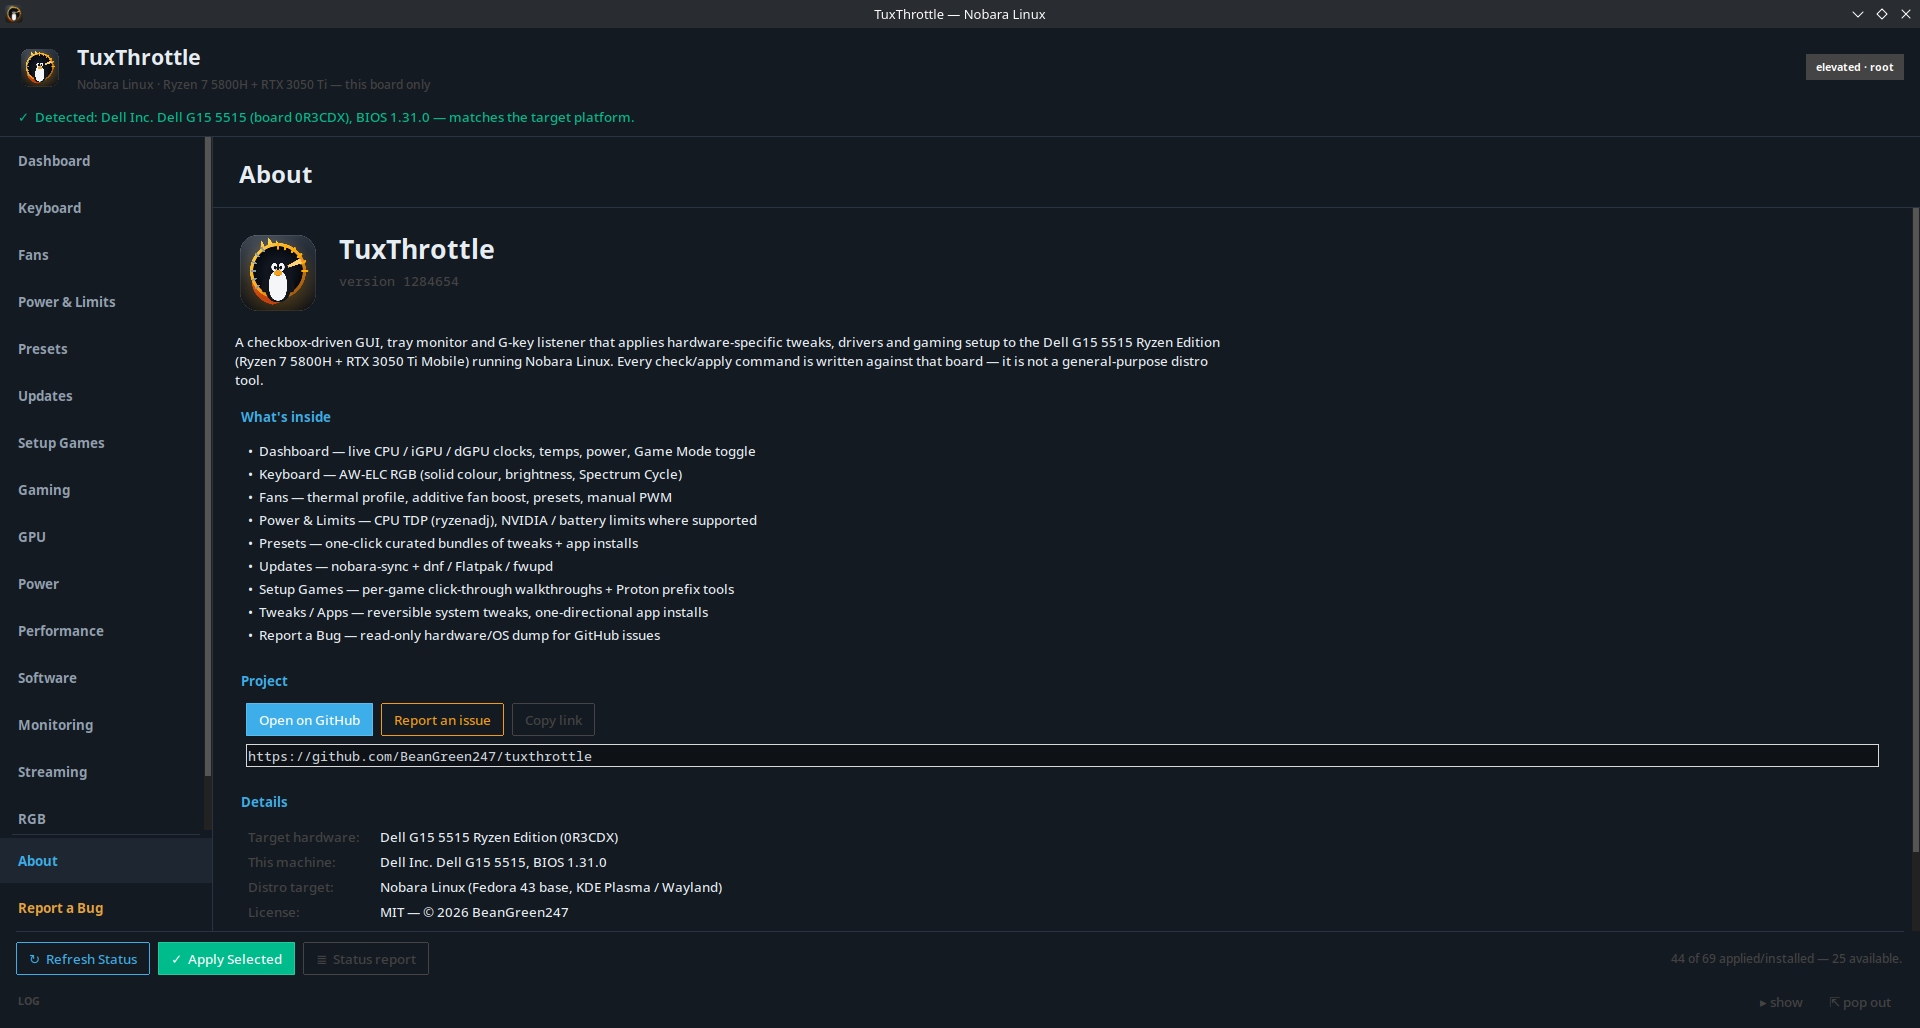
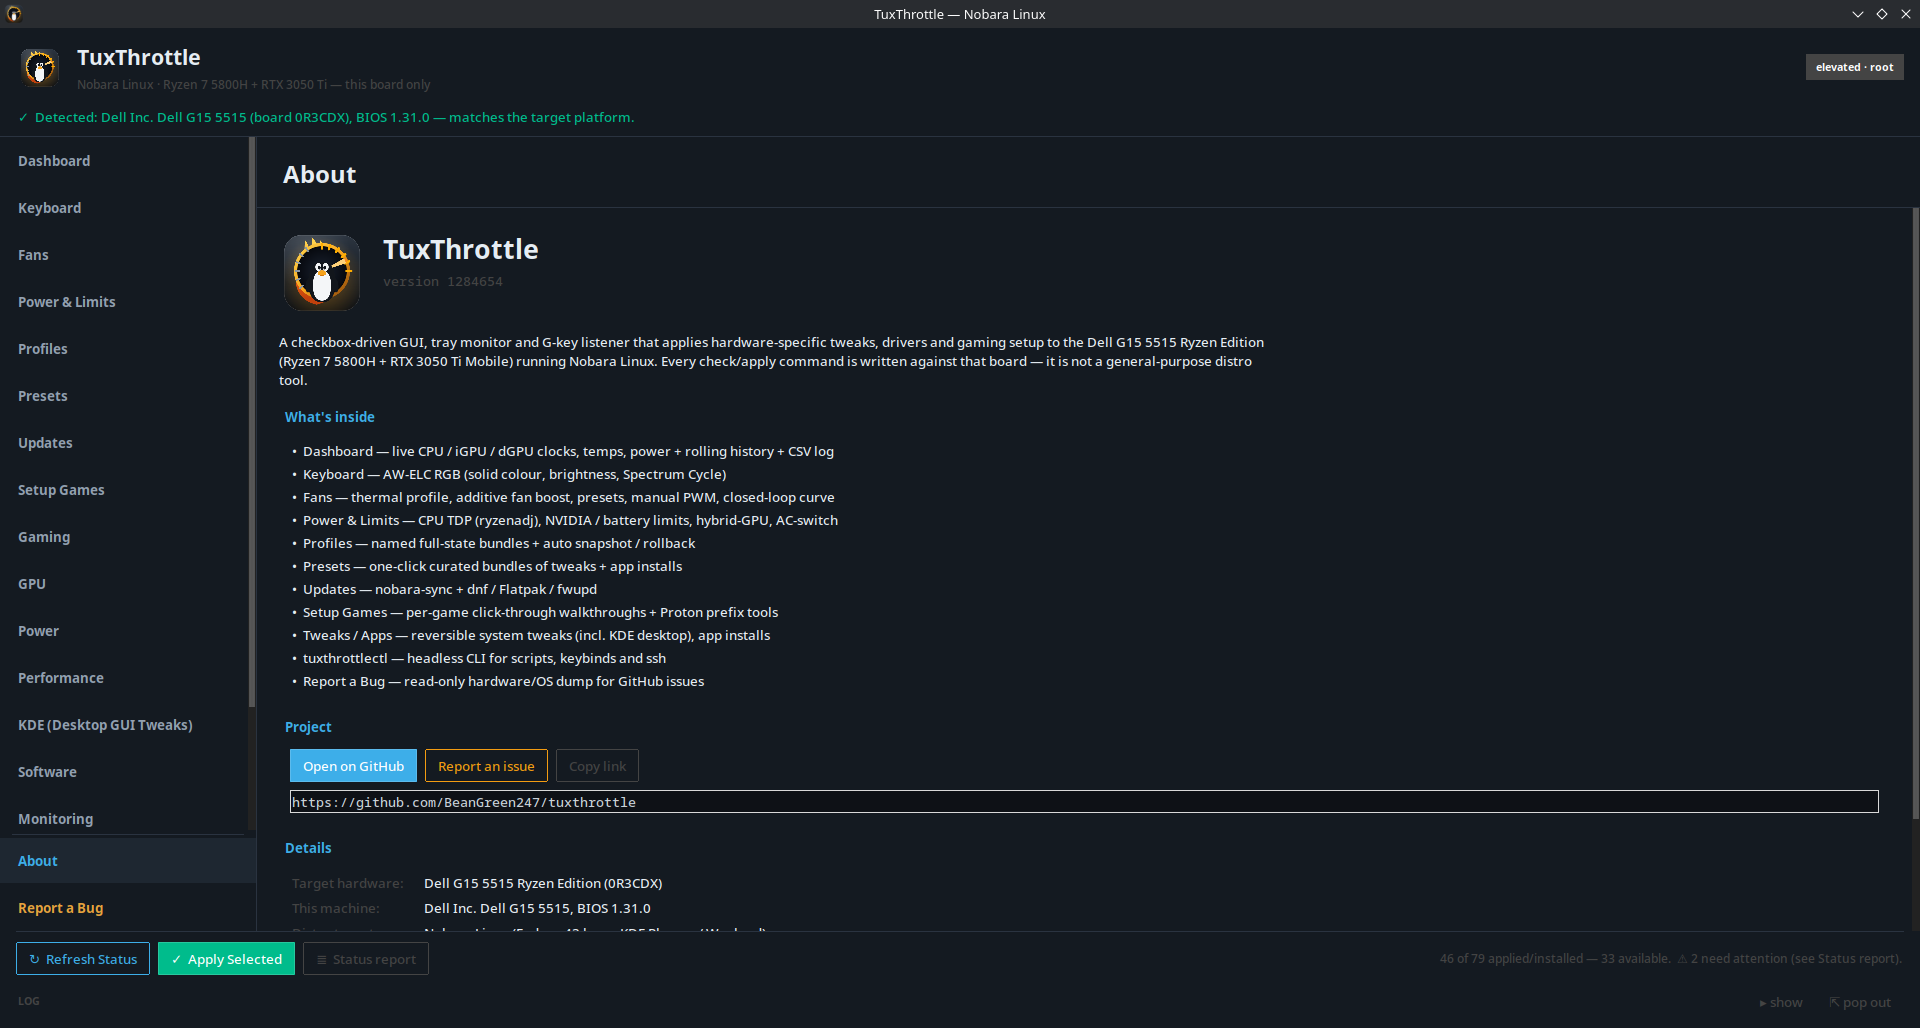
ui: wider nav rail (212->256) + refreshed About feature list + screenshot
The 'KDE (Desktop GUI Tweaks)' label no longer wraps. About 'What's inside'
now lists Profiles, history/CSV, closed-loop fan curve, hybrid-GPU/AC-switch,
KDE tweaks and tuxthrottlectl. README showcase image regenerated.

diff --git a/tuxthrottle.py b/tuxthrottle.py
@@ -448,9 +448,11 @@ class SidebarNav(tb.Frame):
     `.add(frame, text=...)`; `.tabs()` / `.tab()` / `.select()` keep the few
     Notebook call-sites (and the smoke tests) working."""
 
+    RAIL_WIDTH = 256
+
     def __init__(self, master):
         super().__init__(master)
-        self.rail = tb.Frame(self, width=212, style="Nav.TFrame")
+        self.rail = tb.Frame(self, width=self.RAIL_WIDTH, style="Nav.TFrame")
         self.rail.pack(side="left", fill="y")
         self.rail.pack_propagate(False)
         tb.Separator(self, orient="vertical").pack(side="left", fill="y")
@@ -464,7 +466,7 @@ class SidebarNav(tb.Frame):
 
         # Scrollable list of the normal nav buttons.
         self._nav_canvas = tk.Canvas(self.rail, bg=BIOS_PANEL, highlightthickness=0,
-                                     bd=0, width=212)
+                                     bd=0, width=self.RAIL_WIDTH)
         self._nav_vsb = tb.Scrollbar(self.rail, orient="vertical",
                                      command=self._nav_canvas.yview)
         self._nav_canvas.configure(yscrollcommand=self._nav_vsb.set)
@@ -3123,14 +3125,16 @@ class ToolkitApp:
         feat = tb.Labelframe(frame, text="What's inside", padding=12)
         feat.pack(fill="x", pady=6)
         for line in (
-            "Dashboard — live CPU / iGPU / dGPU clocks, temps, power, Game Mode toggle",
+            "Dashboard — live CPU / iGPU / dGPU clocks, temps, power + rolling history + CSV log",
             "Keyboard — AW-ELC RGB (solid colour, brightness, Spectrum Cycle)",
-            "Fans — thermal profile, additive fan boost, presets, manual PWM",
-            "Power & Limits — CPU TDP (ryzenadj), NVIDIA / battery limits where supported",
+            "Fans — thermal profile, additive fan boost, presets, manual PWM, closed-loop curve",
+            "Power & Limits — CPU TDP (ryzenadj), NVIDIA / battery limits, hybrid-GPU, AC-switch",
+            "Profiles — named full-state bundles + auto snapshot / rollback",
             "Presets — one-click curated bundles of tweaks + app installs",
             "Updates — nobara-sync + dnf / Flatpak / fwupd",
             "Setup Games — per-game click-through walkthroughs + Proton prefix tools",
-            "Tweaks / Apps — reversible system tweaks, one-directional app installs",
+            "Tweaks / Apps — reversible system tweaks (incl. KDE desktop), app installs",
+            "tuxthrottlectl — headless CLI for scripts, keybinds and ssh",
             "Report a Bug — read-only hardware/OS dump for GitHub issues",
         ):
             tb.Label(feat, text=f"•  {line}", wraplength=1000, justify="left").pack(anchor="w")
